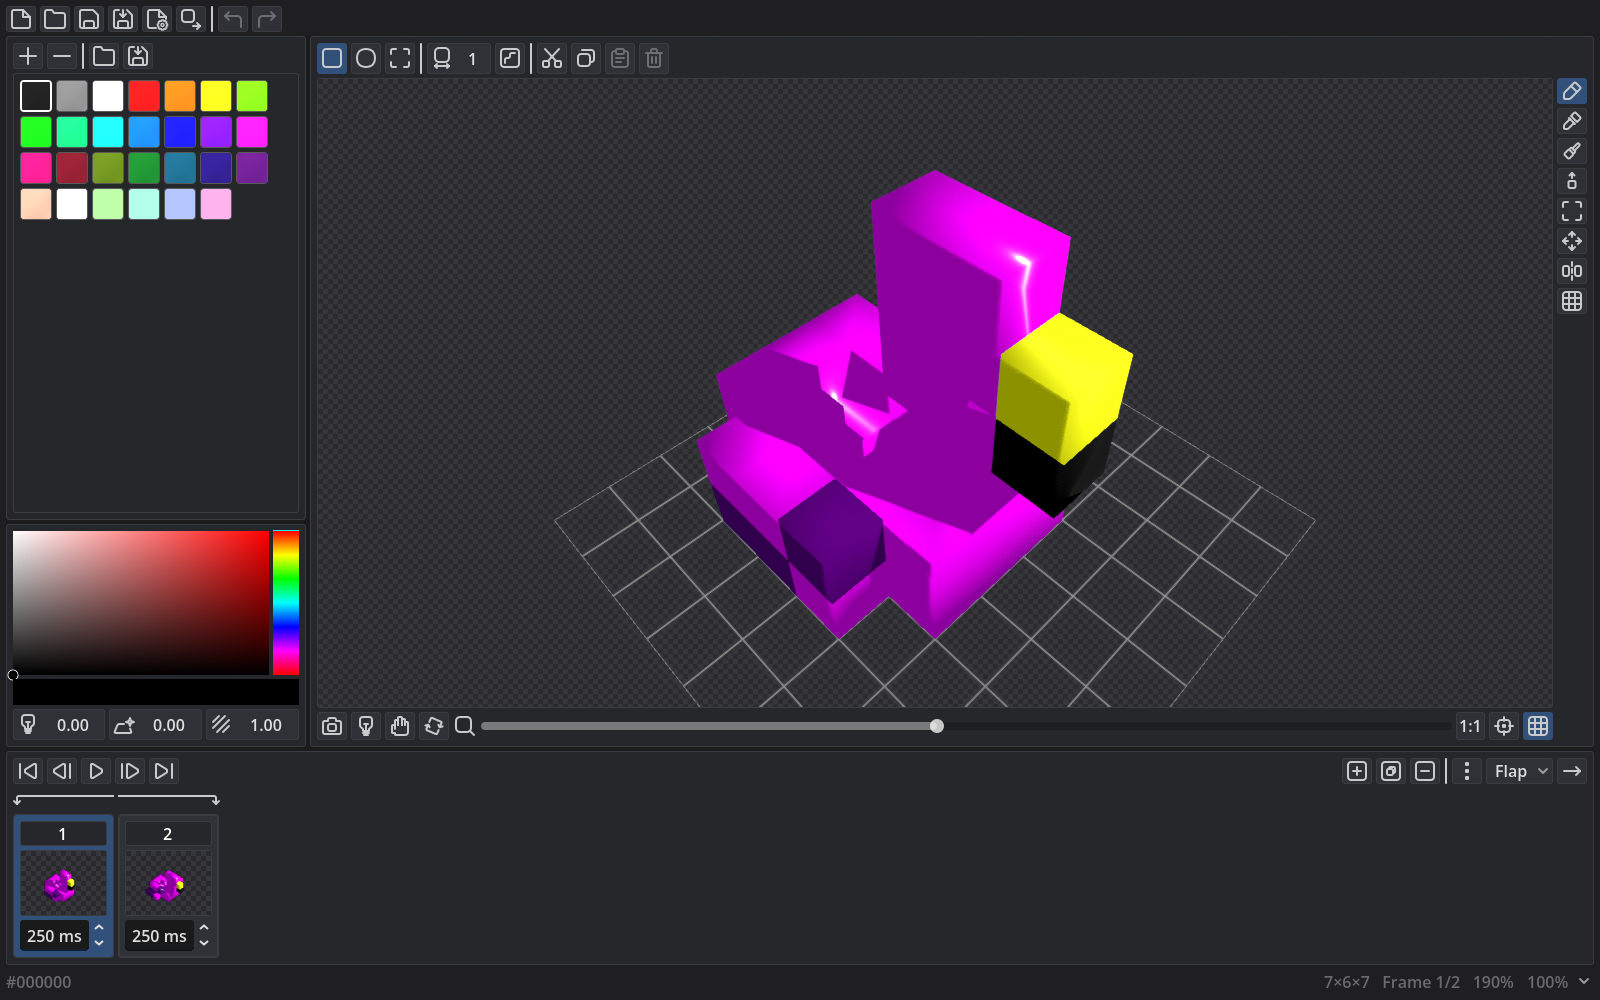
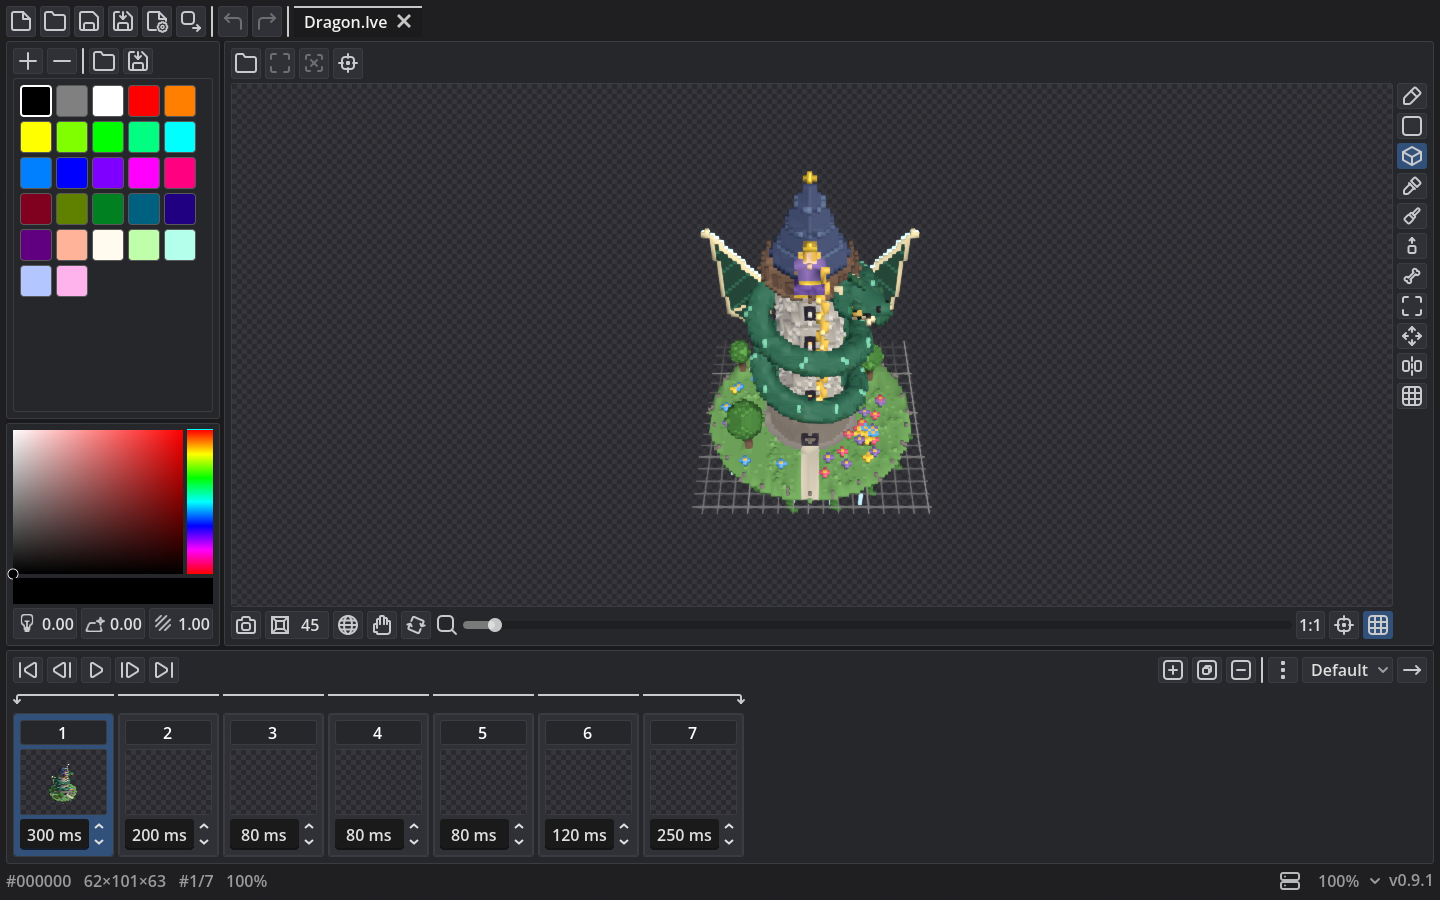
Show the product and the phone layout in the readme
The readme now leads with a screenshot of the editor and a download table
for Windows, Linux, and Android. A second screenshot shows the phone
layout.

The features are grouped by workflow. The Android build description is new.

diff --git a/README.md b/README.md
@@ -2,16 +2,23 @@
 
 Create voxel art and animation.
 
-- [Download for Windows](https://github.com/LeonardMeagher2/LVE/releases/latest/download/LVE-windows-x86_64.zip)
-- [Download for Linux](https://github.com/LeonardMeagher2/LVE/releases/latest/download/LVE-linux-x86_64.zip)
+![Leonard's Voxel Editor editing a voxel dragon](docs/lve-editor.png)
 
-![Leonard's Voxel Editor with the splash document](docs/lve-editor.png)
+LVE is a voxel editor for 3D pixel art and animation. Paint and sculpt voxels, give each voxel its own material, and animate frames with tags. Export a low-poly glTF mesh, a sprite sheet with optional normal and specular maps, or an animated GIF.
 
-LVE is a voxel editor for 3D pixel art and animation.
-Paint and sculpt voxels, set per-voxel materials, and animate frames with tags.
-Export a low-poly glTF mesh, a sprite sheet with optional normal and specular maps, or an animated GIF.
+## Download
+
+| Windows | Linux | Android |
+| --- | --- | --- |
+| [LVE-windows-x86_64.zip](https://github.com/LeonardMeagher2/LVE/releases/latest/download/LVE-windows-x86_64.zip) | [LVE-linux-x86_64.zip](https://github.com/LeonardMeagher2/LVE/releases/latest/download/LVE-linux-x86_64.zip) | [LVE-android-arm64-v8a.apk](https://github.com/LeonardMeagher2/LVE/releases/latest/download/LVE-android-arm64-v8a.apk) |
+
+The Android build runs the phone layout. The palette and the frames share a dock. The controls keep clear of the notch and the gesture area. The documents and the exports match the desktop build.
+
+![The phone layout on Android](docs/lve-android.png)
 
 ## Features
+
+### Paint and sculpt
 
 - Paint, erase, fill, spray, dither, and pick colors.
 - Stamp a frame from an LVE file or the current selection.
@@ -20,19 +27,26 @@ Export a low-poly glTF mesh, a sprite sheet with optional normal and specular ma
 - Select, move, rotate, and scale voxels.
 - Paste voxel selections or clipboard images.
 - Mirror and slice the model while you work.
+
+### Animate
+
 - Animate frames with tags, loops, and playback.
+
+### Materials and preview
+
 - Set albedo, metallic, roughness, and emission per voxel.
-- Export glTF, GLB, sprite sheets with optional normal and specular maps, and animated GIFs.
 - Preview normal-mapped 2D lighting at the pointer and inspect the normal sheet.
 - Adjust the preview specular light with a drag value button.
+
+### Export
+
+- Export glTF, GLB, sprite sheets with optional normal and specular maps, and animated GIFs.
+
+### Documents
+
 - Save compact `.lve` documents or `.lve.png` files with a preview.
-
-## Document files
-
-- `.lve` is a compact binary document.
-- `.lve.png` adds a rendered first-frame preview.
-- Open either format to restore the animation and saved settings.
 - Drop a `.lve` document or an image file on the window to open it.
+- Open either format to restore the animation and the saved settings.
 - Share the original PNG file to preserve its document data.
 
 See [docs/DOCUMENT_FORMAT.md](docs/DOCUMENT_FORMAT.md) for the format.
